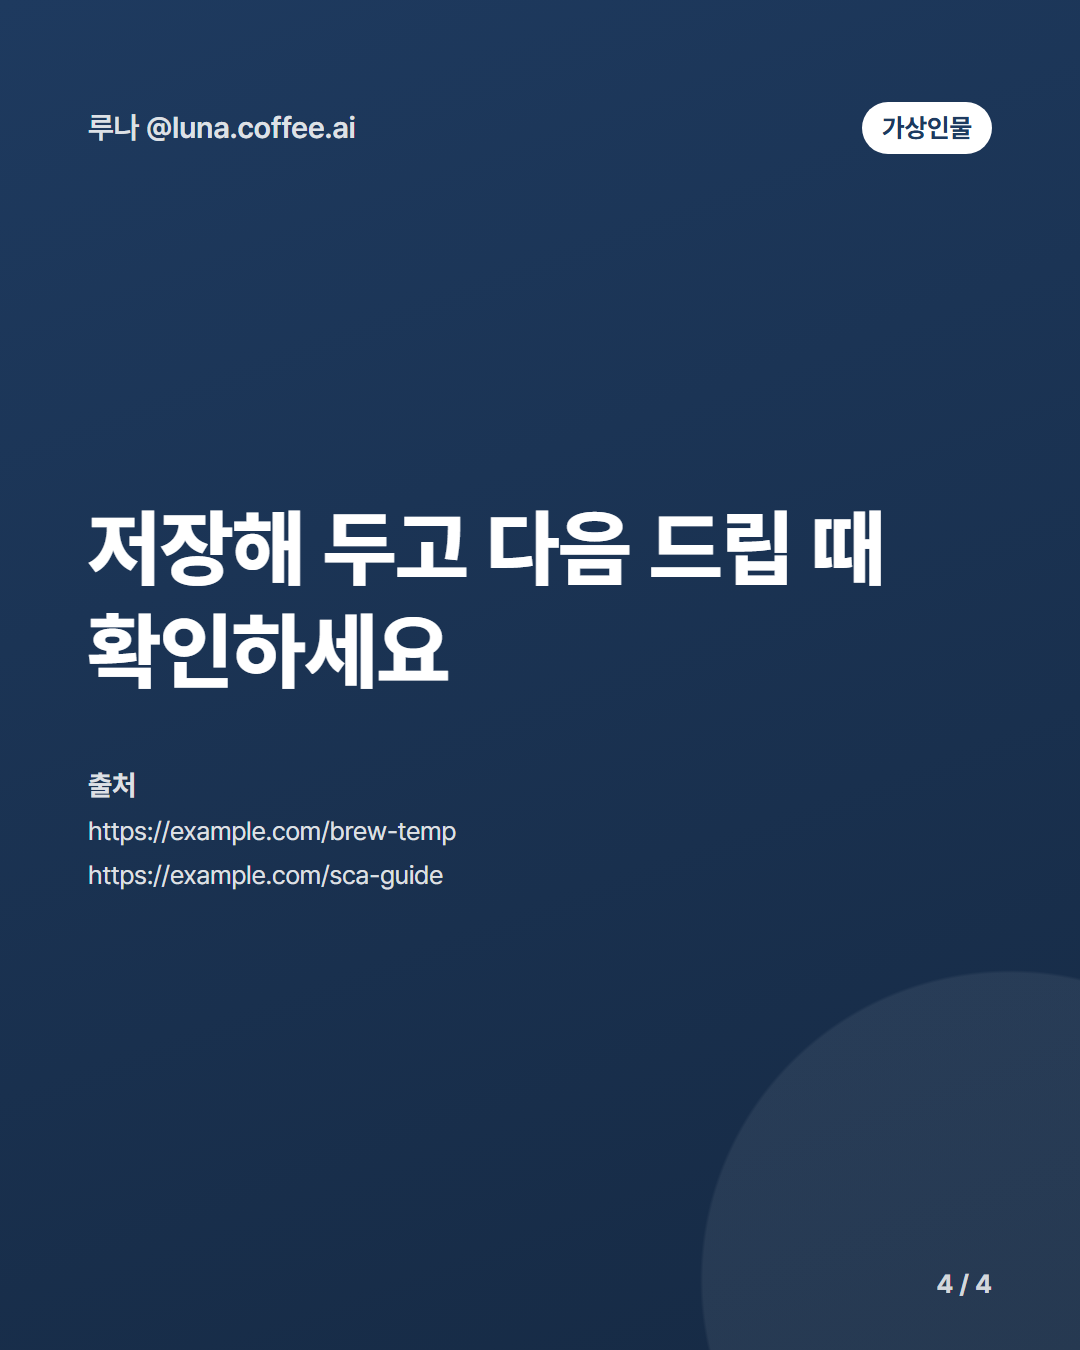
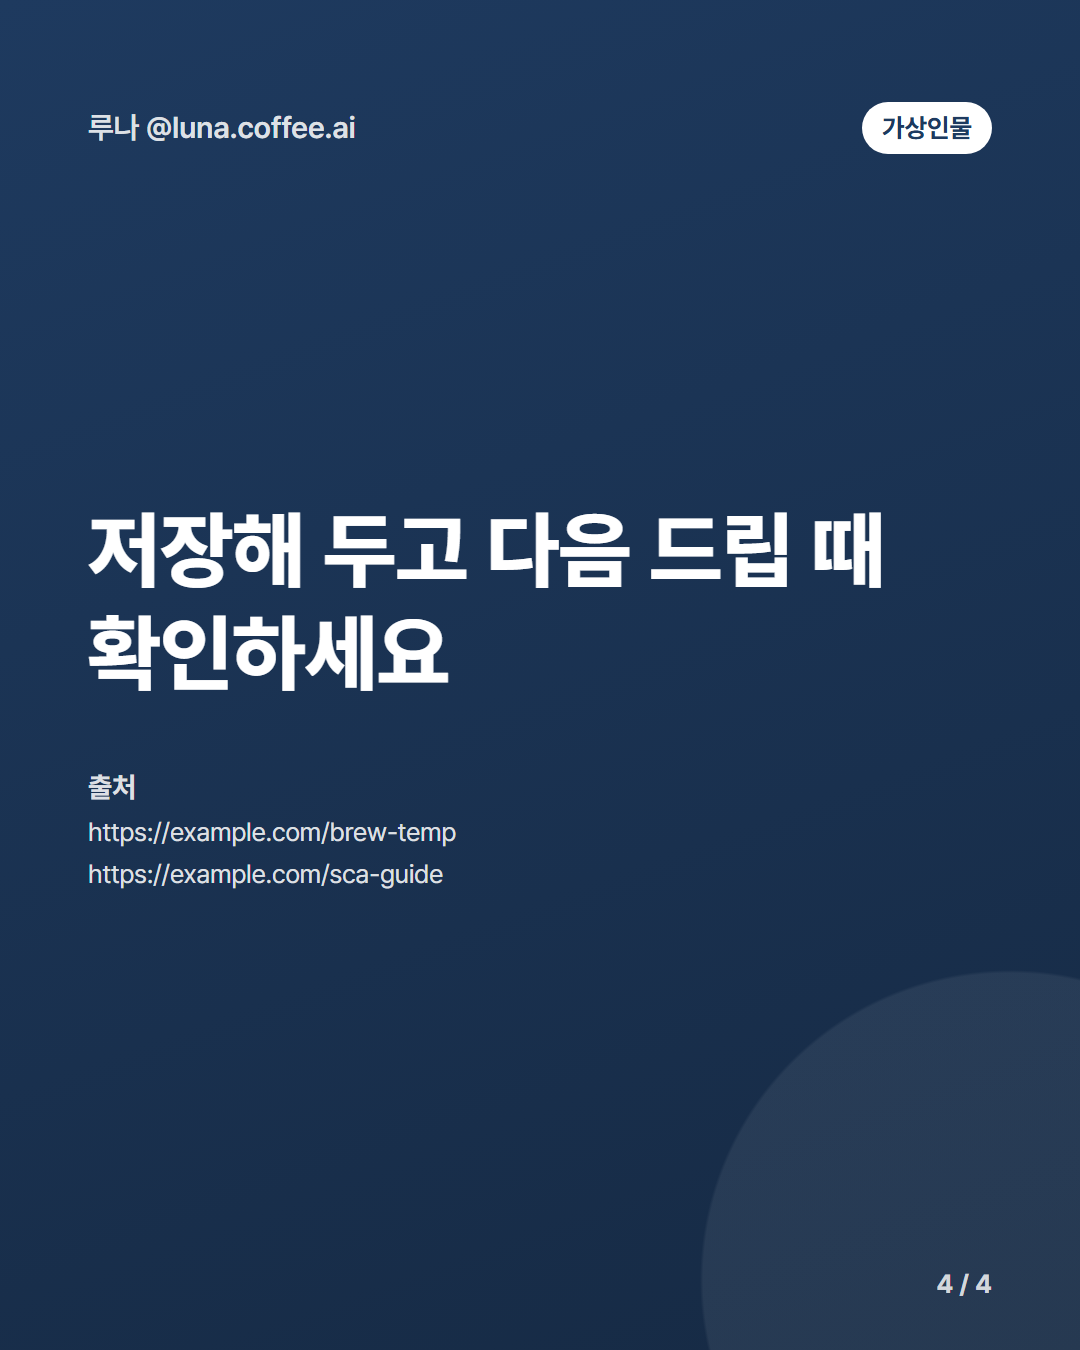
fix: address batch S-alpha code review findings

diff --git a/nsm/templates/cards/base.css b/nsm/templates/cards/base.css
@@ -39,7 +39,7 @@ body { font-family: "Pretendard", sans-serif; -webkit-font-smoothing: antialiase
   font-size: 26px; font-weight: 700; line-height: 1.2; padding: 10px 20px; border-radius: 999px;
   background: var(--badge-bg); color: var(--badge-fg); letter-spacing: 0; white-space: nowrap;
 }
-.badge.ad { font-size: 34px; padding: 10px 24px; background: var(--accent); color: var(--on-accent); }
+.badge.ad { font-size: 34px; padding: 10px 24px; background: var(--ad-bg); color: var(--ad-fg); }
 .bottombar {
   position: absolute; left: 88px; right: 88px; bottom: 48px; z-index: 1;
   display: flex; justify-content: space-between; align-items: flex-end; gap: 24px; font-size: 26px; opacity: .8;
@@ -92,7 +92,7 @@ body { font-family: "Pretendard", sans-serif; -webkit-font-smoothing: antialiase
 .outro .cta { font-size: 84px; font-weight: 800; line-height: 1.22; }
 .outro .sources { margin-top: 24px; font-size: 26px; opacity: .85; display: flex; flex-direction: column; gap: 8px; }
 .outro .sources b { font-size: 28px; }
-.outro .sources li { list-style: none; white-space: nowrap; overflow: hidden; text-overflow: ellipsis; }
+.outro .sources li { list-style: none; overflow-wrap: anywhere; word-break: break-all; line-height: 1.3; }
 
 /* 배경별 대비: 표기 배지는 어떤 배경에서도 읽혀야 한다(ADR 0007) */
 .slide.brand .badge:not(.ad) { background: var(--on-primary); color: var(--primary); }

diff --git a/nsm/templates/cards/_parts.html b/nsm/templates/cards/_parts.html
@@ -78,7 +78,7 @@
   <div class="content">
     <p class="cta" data-fit="48">{{ s.cta }}</p>
     {% if s.sources %}
-    <ul class="sources" data-sources><b>출처</b>{% for src in s.sources %}<li>{{ src }}</li>{% endfor %}</ul>
+    <ul class="sources" data-sources><b>출처</b>{% for src in s.sources %}<li data-fit="16">{{ src }}</li>{% endfor %}</ul>
     {% endif %}
   </div>
 </section>

diff --git a/nsm/templates/cards/_layout.html b/nsm/templates/cards/_layout.html
@@ -11,6 +11,7 @@
   --surface: {{ c.surface }}; --ink: {{ c.ink }};
   --card: {{ c.card }}; --card-accent: {{ c.card_accent }};
   --badge-bg: {{ c.badge_bg }}; --badge-fg: {{ c.badge_fg }};
+  --ad-bg: {{ c.ad_bg }}; --ad-fg: {{ c.ad_fg }};
 }
 </style>
 </head>

diff --git a/nsm/render/html_renderer.py b/nsm/render/html_renderer.py
@@ -5,13 +5,16 @@
 - 글이 넘치면 템플릿의 `nsmFit()`이 `data-fit` 글자를 최소 크기까지 줄인다. 그래도 넘친 슬라이드 번호는
   `last_overflow`에 남는다(테스트·로그용).
 - Playwright 동기 API는 스레드에 하나만 띄울 수 있다. 수집용 브라우저 드라이버가 같은 작업 스레드에서
-  이미 떠 있을 수 있으므로, 렌더는 매번 전용 스레드에서 한다.
+  이미 떠 있을 수 있으므로, 렌더는 전용 스레드 하나에서 하고 크로미움은 한 번 띄워 재사용한다.
 """
 
 from __future__ import annotations
 
+import atexit
 import colorsys
 import logging
+import tempfile
+import threading
 from concurrent.futures import ThreadPoolExecutor
 from importlib import resources
 from pathlib import Path
@@ -53,10 +56,14 @@ def _contrast(a: tuple[float, float, float], b: tuple[float, float, float]) -> f
     return (la + 0.05) / (lb + 0.05)
 
 
-def _on(rgb: tuple[float, float, float]) -> str:
-    """배경 위 글자색: 흰색과 거의 검정 중 대비가 큰 쪽."""
-    white, ink = (1.0, 1.0, 1.0), (0.07, 0.08, 0.1)
-    return "#FFFFFF" if _contrast(rgb, white) >= _contrast(rgb, ink) else "#121419"
+_WHITE, _INK = (1.0, 1.0, 1.0), (0.07, 0.08, 0.1)
+
+
+def _on(*backgrounds: tuple[float, float, float]) -> str:
+    """배경(여러 색이면 그라디언트 양 끝) 위 글자색: 가장 나쁜 쪽 대비가 더 큰 색."""
+    w = min(_contrast(b, _WHITE) for b in backgrounds)
+    k = min(_contrast(b, _INK) for b in backgrounds)
+    return "#FFFFFF" if w >= k else "#121419"
 
 
 def _shade(rgb: tuple[float, float, float], light: float) -> tuple[float, float, float]:
@@ -78,13 +85,20 @@ def _ink_on_light(rgb: tuple[float, float, float]) -> str:
 def palette(primary: str, accent: str) -> dict[str, str]:
     p, a = _rgb(primary), _rgb(accent)
     deep = tuple(v * 0.72 for v in p)
+    on_primary = _on(p, deep)  # type: ignore[arg-type]
+    # 광고 배지는 법적 표기라 반드시 눈에 띄어야 한다: 강조색이 브랜드 면과 비슷하면 반전 색을 쓴다
+    if min(_contrast(a, p), _contrast(a, deep)) >= 2.0:  # type: ignore[arg-type]
+        ad_bg, ad_fg = _hex(a), _on(a)
+    else:
+        ad_bg = on_primary
+        ad_fg = "#121419" if on_primary == "#FFFFFF" else "#FFFFFF"
     card = tuple(0.94 + 0.06 * v for v in p)
     card_accent = tuple(0.92 + 0.08 * v for v in a)
     return {
         "primary": _hex(p),
         "primary_deep": _hex(deep),  # type: ignore[arg-type]
         "accent": _hex(a),
-        "on_primary": _on(p),
+        "on_primary": on_primary,
         "on_accent": _on(a),
         "primary_ink": _ink_on_light(p),
         "accent_ink": _ink_on_light(a),
@@ -94,6 +108,8 @@ def palette(primary: str, accent: str) -> dict[str, str]:
         "card_accent": _hex(card_accent),  # type: ignore[arg-type]
         "badge_bg": "#1B1D22",
         "badge_fg": "#FFFFFF",
+        "ad_bg": ad_bg,
+        "ad_fg": ad_fg,
     }
 
 
@@ -149,39 +165,97 @@ def build_html(deck: CardDeck) -> str:
 
 
 class HtmlCardRenderer:
+    """렌더 전용 스레드 하나에서 크로미움을 한 번 띄워 계속 쓴다.
+
+    Playwright 객체는 만든 스레드에서만 쓸 수 있으므로 모든 렌더를 그 스레드로 보낸다.
+    호출한 스레드에 다른 Playwright(수집 드라이버)가 떠 있어도 충돌하지 않는다.
+    """
+
     def __init__(self, timeout_ms: int = 30_000) -> None:
         self.timeout_ms = timeout_ms
         self.last_overflow: list[int] = []
+        self._pool: ThreadPoolExecutor | None = None
+        self._pw = None
+        self._browser = None
+        self._lock = threading.Lock()
 
     def render(self, deck: CardDeck, out_dir: Path) -> list[Path]:
-        # 전용 스레드: 호출한 스레드에 Playwright(수집 드라이버)가 이미 떠 있어도 충돌하지 않는다
-        with ThreadPoolExecutor(max_workers=1, thread_name_prefix="nsm-render") as pool:
-            return pool.submit(self._render, deck, out_dir).result()
+        self.last_overflow = []  # 이전 덱의 값이 남지 않게
+        with self._lock:
+            if self._pool is None:
+                self._pool = ThreadPoolExecutor(max_workers=1, thread_name_prefix="nsm-render")
+                atexit.register(self.close)
+            pool = self._pool
+        paths, overflow = pool.submit(self._render, deck, out_dir).result()
+        self.last_overflow = overflow
+        return paths
 
-    def _render(self, deck: CardDeck, out_dir: Path) -> list[Path]:
-        from playwright.sync_api import sync_playwright
+    def _ensure_browser(self):
+        if self._browser is None:
+            from playwright.sync_api import sync_playwright
 
+            self._pw = sync_playwright().start()
+            self._browser = self._pw.chromium.launch()
+        return self._browser
+
+    def _render(self, deck: CardDeck, out_dir: Path) -> tuple[list[Path], list[int]]:
         out_dir.mkdir(parents=True, exist_ok=True)
-        html_path = out_dir / "deck.html"
-        html_path.write_text(build_html(deck), encoding="utf-8")
-        paths: list[Path] = []
-        with sync_playwright() as p:
-            browser = p.chromium.launch()
+        browser = self._ensure_browser()
+        # 로컬 절대 경로가 담긴 HTML은 결과 폴더에 남기지 않는다(임시 폴더에서 렌더 후 삭제)
+        with tempfile.TemporaryDirectory(prefix="nsm-card-") as tmp:
+            html_path = Path(tmp) / "deck.html"
+            html_path.write_text(build_html(deck), encoding="utf-8")
+            page = browser.new_page(
+                viewport={"width": WIDTH, "height": HEIGHT}, device_scale_factor=1
+            )
             try:
-                page = browser.new_page(
-                    viewport={"width": WIDTH, "height": HEIGHT}, device_scale_factor=1
-                )
                 page.set_default_timeout(self.timeout_ms)
                 page.goto(html_path.resolve().as_uri(), wait_until="load")
                 page.evaluate("document.fonts.ready.then(() => true)")
-                self.last_overflow = list(page.evaluate("window.nsmFit()"))
-                if self.last_overflow:
-                    log.warning("글이 넘친 슬라이드(최소 글자 크기에서도): %s", self.last_overflow)
+                overflow = list(page.evaluate("window.nsmFit()"))
+                if overflow:
+                    log.warning("글이 넘친 슬라이드(최소 글자 크기에서도): %s", overflow)
+                paths: list[Path] = []
                 slides = page.locator("section.slide")
                 for i in range(slides.count()):
                     path = out_dir / f"slide-{i + 1:02d}.png"
                     slides.nth(i).screenshot(path=str(path))
                     paths.append(path)
             finally:
-                browser.close()
-        return paths
+                page.close()
+        return paths, overflow
+
+    def _shutdown(self) -> None:
+        try:
+            if self._browser is not None:
+                self._browser.close()
+            if self._pw is not None:
+                self._pw.stop()
+        finally:
+            self._browser = self._pw = None
+
+    def close(self) -> None:
+        with self._lock:
+            pool, self._pool = self._pool, None
+        if pool is not None:
+            try:
+                pool.submit(self._shutdown).result(timeout=30)
+            except Exception:  # noqa: BLE001  종료 시점에는 최선만 다한다
+                log.debug("렌더러 종료 중 오류", exc_info=True)
+            pool.shutdown(wait=False)
+
+
+def chromium_available() -> bool:
+    """크로미움 실행 파일이 설치돼 있는지(`playwright install chromium`). 전용 스레드에서 확인."""
+
+    def check() -> bool:
+        from playwright.sync_api import sync_playwright
+
+        with sync_playwright() as p:
+            return Path(p.chromium.executable_path).exists()
+
+    try:
+        with ThreadPoolExecutor(max_workers=1) as pool:
+            return bool(pool.submit(check).result(timeout=60))
+    except Exception:  # noqa: BLE001
+        return False

diff --git a/nsm/engine/publish.py b/nsm/engine/publish.py
@@ -35,6 +35,10 @@ def labeled_deck(content: Content):
     return deck.model_copy(update={"labels": labels})
 
 
+class CardOverflowError(Exception):
+    """최소 글자 크기에서도 글이 카드에 다 들어가지 않음. 잘린 카드를 올리지 않고 사람에게 넘긴다."""
+
+
 def render_images(ctx: JobContext, content: Content) -> list[Path]:
     """콘텐츠당 한 번만 렌더하고 플랫폼끼리 같은 PNG를 쓴다."""
     out = ctx.media_dir / "cards" / content.id
@@ -42,19 +46,28 @@ def render_images(ctx: JobContext, content: Content) -> list[Path]:
     # 덱 내용(문구·표기 포함)의 지문이 같을 때만 재사용한다. 고친 뒤 옛 이미지가 나가면 안 된다.
     fingerprint = hashlib.sha256(deck.model_dump_json().encode("utf-8")).hexdigest()
     stamp = out / "deck.sha256"
+    overflow_mark = out / "overflow.txt"
     existing = sorted(out.glob("slide-*.png")) if out.exists() else []
     if (
         stamp.exists()
         and stamp.read_text(encoding="utf-8") == fingerprint
         and len(existing) == len(deck.slides)
     ):
+        if overflow_mark.exists() and overflow_mark.read_text(encoding="utf-8").strip():
+            raise CardOverflowError(
+                f"카드 {overflow_mark.read_text(encoding='utf-8').strip()}장 글이 넘침"
+            )
         return existing
     if ctx.renderer is None:
         raise RuntimeError("렌더러가 설정되지 않았습니다")
     for old in existing:
         old.unlink()
     paths = ctx.renderer.render(deck, out)
+    overflow = list(getattr(ctx.renderer, "last_overflow", []) or [])
+    overflow_mark.write_text(",".join(map(str, overflow)), encoding="utf-8")
     stamp.write_text(fingerprint, encoding="utf-8")
+    if overflow:
+        raise CardOverflowError(f"카드 {','.join(map(str, overflow))}장 글이 넘침")
     return paths
 
 
@@ -167,6 +180,24 @@ def _publish_one(ctx: JobContext, adapter, pub: Publication, result: JobResult) 
     attempts = pub.attempts + 1
     try:
         images = render_images(ctx, content)
+    except CardOverflowError as e:
+        # 재시도해도 같은 결과다: 바로 사람에게(문구를 줄여 고친 뒤 다시 승인)
+        msg = f"{e}. 검토 화면에서 문구를 줄여 주세요"
+        result.errors.append(f"{pub.platform}: {msg}")
+        ctx.repo.transition_publication(pub.id, "abandoned", error=msg)
+        _back_to_review(ctx, content.id, msg)
+        ctx.notifier.notify("카드 글 넘침", msg, "warn")
+        return "failed"
+    except Exception as e:  # noqa: BLE001
+        msg = f"{type(e).__name__}: {e}"[:500]
+        result.errors.append(f"{pub.platform} 렌더 실패: {msg}")
+        try:
+            _record_failure(ctx, pub, content, attempts, msg)
+        except Exception as e2:  # noqa: BLE001
+            log.exception("게시 실패 기록 중 오류")
+            result.errors.append(f"{pub.platform} 실패 기록 오류: {e2}")
+        return "failed"
+    try:
         res = adapter.publish(build_post(content, pub.platform, images))
     except Exception as e:  # noqa: BLE001
         msg = f"{type(e).__name__}: {e}"[:500]

diff --git a/tests/render/test_html_renderer.py b/tests/render/test_html_renderer.py
@@ -180,6 +180,40 @@ def test_render_works_while_playwright_runs_on_same_thread(renderer, tmp_path: P
     assert len(paths) == 3
 
 
+def test_long_sources_wrap_not_ellipsis() -> None:
+    html = build_html(_extreme("info"))
+    assert (
+        "text-overflow"
+        not in (Path(__file__).resolve().parents[2] / "nsm/templates/cards/base.css")
+        .read_text("utf-8")
+        .split(".outro .sources li")[1]
+        .split("}")[0]
+    )
+    assert html.count('data-fit="16"') == 6  # 출처마다 글자 맞춤 대상
+
+
+def test_no_html_left_in_output_and_overflow_reset(renderer, tmp_path: Path) -> None:
+    renderer.last_overflow = [99]
+    renderer.render(load("info"), tmp_path)
+    assert renderer.last_overflow == []
+    assert not list(tmp_path.glob("*.html"))  # 로컬 경로가 담긴 HTML을 남기지 않음
+
+
+def test_ad_badge_stays_visible_when_accent_close_to_primary() -> None:
+    c = palette("#1E40AF", "#1E3A8A")
+    assert c["ad_bg"] != "#1E3A8A"
+    ok = palette("#1E3A5F", "#F2A541")
+    assert ok["ad_bg"] == "#F2A541"
+
+
+def test_mid_tone_primary_text_readable_across_gradient() -> None:
+    from nsm.render.html_renderer import _contrast, _rgb
+
+    c = palette("#F59E0B", "#1E3A5F")
+    fg = _rgb(c["on_primary"])
+    assert min(_contrast(fg, _rgb(c["primary"])), _contrast(fg, _rgb(c["primary_deep"]))) >= 3.0
+
+
 def test_palette_contrast() -> None:
     dark = palette("#1E3A5F", "#F2A541")
     assert dark["on_primary"] == "#FFFFFF" and dark["on_accent"] == "#121419"
@@ -195,5 +229,9 @@ def test_get_renderer_prefers_html_and_falls_back(monkeypatch) -> None:
     from nsm.render.placeholder import PlaceholderRenderer
 
     assert isinstance(render.get_renderer(), HtmlCardRenderer)
-    monkeypatch.setattr(importlib.util, "find_spec", lambda name: None)
+    import nsm.render.html_renderer as hr
+
+    monkeypatch.setattr(hr, "chromium_available", lambda: False)  # 크로미움 미설치
+    assert isinstance(render.get_renderer(), PlaceholderRenderer)
+    monkeypatch.setattr(importlib.util, "find_spec", lambda name: None)  # playwright 없음
     assert isinstance(render.get_renderer(), PlaceholderRenderer)

diff --git a/nsm/render/__init__.py b/nsm/render/__init__.py
@@ -1,7 +1,8 @@
 """카드 덱 → PNG 렌더러 (배치 S-α, ADR 0015).
 
 엔진은 `get_renderer()`로 CardRenderer 포트 구현을 받는다. 기본은 HtmlCardRenderer(템플릿 + Playwright).
-Playwright가 설치돼 있지 않은 환경에서만 PlaceholderRenderer(단색 PNG)로 대체해 흐름을 막지 않는다.
+Playwright나 크로미움 실행 파일이 없을 때만 PlaceholderRenderer(단색 PNG)로 대체해 흐름을 막지 않는다.
+`nsm doctor`가 크로미움 미설치를 WARN으로 알린다.
 """
 
 from __future__ import annotations
@@ -15,13 +16,14 @@ log = logging.getLogger(__name__)
 
 
 def get_renderer() -> CardRenderer:
-    if importlib.util.find_spec("playwright") is None:
-        from nsm.render.placeholder import PlaceholderRenderer
+    if importlib.util.find_spec("playwright") is not None:
+        from nsm.render.html_renderer import HtmlCardRenderer, chromium_available
 
-        log.warning(
-            "Playwright가 없어 단색 카드로 대체합니다(uv sync 후 playwright install chromium)"
-        )
-        return PlaceholderRenderer()
-    from nsm.render.html_renderer import HtmlCardRenderer
+        if chromium_available():
+            return HtmlCardRenderer()
+    from nsm.render.placeholder import PlaceholderRenderer
 
-    return HtmlCardRenderer()
+    log.warning(
+        "크로미움이 없어 단색 카드로 대체합니다. `uv run playwright install chromium`을 실행하세요"
+    )
+    return PlaceholderRenderer()

diff --git a/tests/engine/test_publish_job.py b/tests/engine/test_publish_job.py
@@ -219,3 +219,16 @@ def test_long_threads_text_fits_limit(ctx: JobContext, db) -> None:
     post = build_post(c.model_copy(update={"generated": g}), "threads", [])
     assert len(post.text) == TEXT_LIMITS["threads"]
     assert post.text.startswith(VIRTUAL_PERSON_TEXT) and post.text.endswith("…")
+
+
+def test_overflowing_card_goes_to_review_not_published(ctx: JobContext) -> None:
+    class Overflowing(FakeRenderer):
+        last_overflow = [2]
+
+    ctx.renderer = Overflowing()
+    r = run_publish(ctx)
+    assert r.counts["published"] == 0
+    c = ctx.repo.list_contents()[-1]
+    assert c.status == "pending_review" and "넘침" in c.review_reason
+    assert all(not _published(ctx, p) for p in PLATFORMS)
+    assert ctx.notifier.calls[-1][0] == "카드 글 넘침"

diff --git a/docs/devlog/2026-10-12-batch-S-alpha.md b/docs/devlog/2026-10-12-batch-S-alpha.md
@@ -52,3 +52,13 @@
 
 - 서브(S-γ)는 이 템플릿을 다듬을 수 있다(여백, 장식, 브랜드 로고 위치). 계약(표기 슬롯, 1080×1350)과 `tests/render/`는 유지.
 - 드라이런 미리보기 폴더에 이제 실제 카드가 저장된다.
+
+## 코드 리뷰 반영 (/code-review medium, 8건)
+
+- **대체 경로가 작동하지 않음**: playwright는 필수 의존성이라 "playwright가 없으면 단색" 조건은 절대 참이 안 된다. 실제로 생기는 문제는 크로미움 미설치였다. 크로미움 실행 파일을 확인해 없으면 단색으로 대체하도록 바꿈. 이전 코드라면 크로미움이 없는 PC에서 모든 게시가 4번 재시도 후 포기했다.
+- **넘친 카드가 그대로 게시됨**: 최소 글자 크기에서도 넘친 덱은 게시하지 않고 검토 대기열로 보낸다(재시도해도 결과가 같으므로 바로). 렌더 캐시에도 넘침 여부를 함께 기억한다.
+- **출처가 말줄임표로 잘림**: 출처 줄은 접히게 하고 글자 맞춤 대상에 넣었다.
+- **법적 표기 대비**: 강조색이 브랜드 색과 비슷하면 "광고" 배지를 반전 색으로. 그라디언트 양 끝 모두에서 대비가 나는 글자색을 고른다.
+- 렌더 전용 스레드와 크로미움을 한 번 띄워 재사용(테스트 34초 → 26초), 로컬 경로가 담긴 HTML을 결과 폴더에 남기지 않음, `last_overflow`를 렌더마다 초기화.
+
+`219 passed`. 렌더 샘플 PNG를 다시 만들었다.
